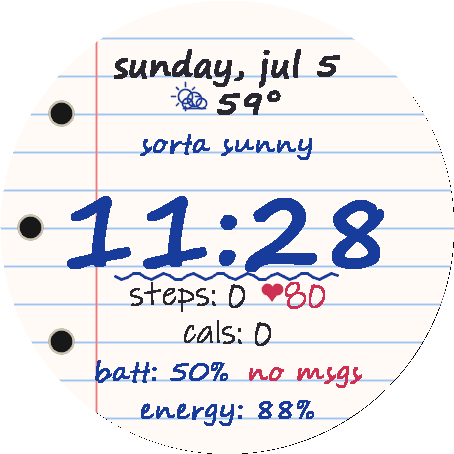
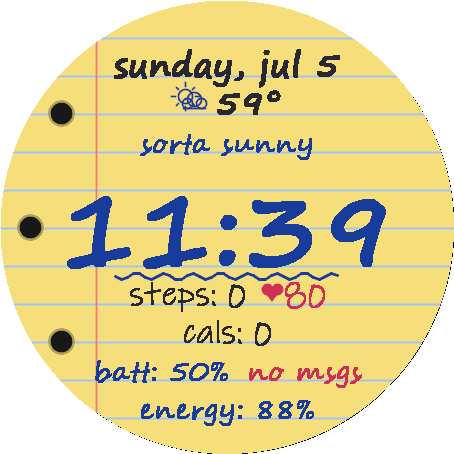
fix: make the legal pad setting stick, and actually yellow (v1.0.3)
Property reads now accept Long values from the settings editor - the
old checks silently discarded them and kept the defaults. Deepened the
legal pad color from pale cream to a real legal-pad yellow.

diff --git a/CHANGELOG.md b/CHANGELOG.md
@@ -4,6 +4,18 @@ All notable changes to Passed Note are documented here. The format is based on
 [Keep a Changelog](https://keepachangelog.com/en/1.1.0/), and this project aims to
 follow [Semantic Versioning](https://semver.org/spec/v2.0.0.html).
 
+## [1.0.3] - 2026-07-05
+
+### Fixed
+- **Legal pad setting reliably applies**: property reads now also accept Long
+  values from the settings editor (previously such values were silently
+  discarded and the paper stayed white). Note for simulator testing: the sim
+  saves chosen settings per app and they override the shipped defaults.
+
+### Changed
+- The legal pad is properly **yellow** now (deeper legal-pad tone instead of
+  the old pale cream).
+
 ## [1.0.2] - 2026-07-05
 
 The layout settles down.